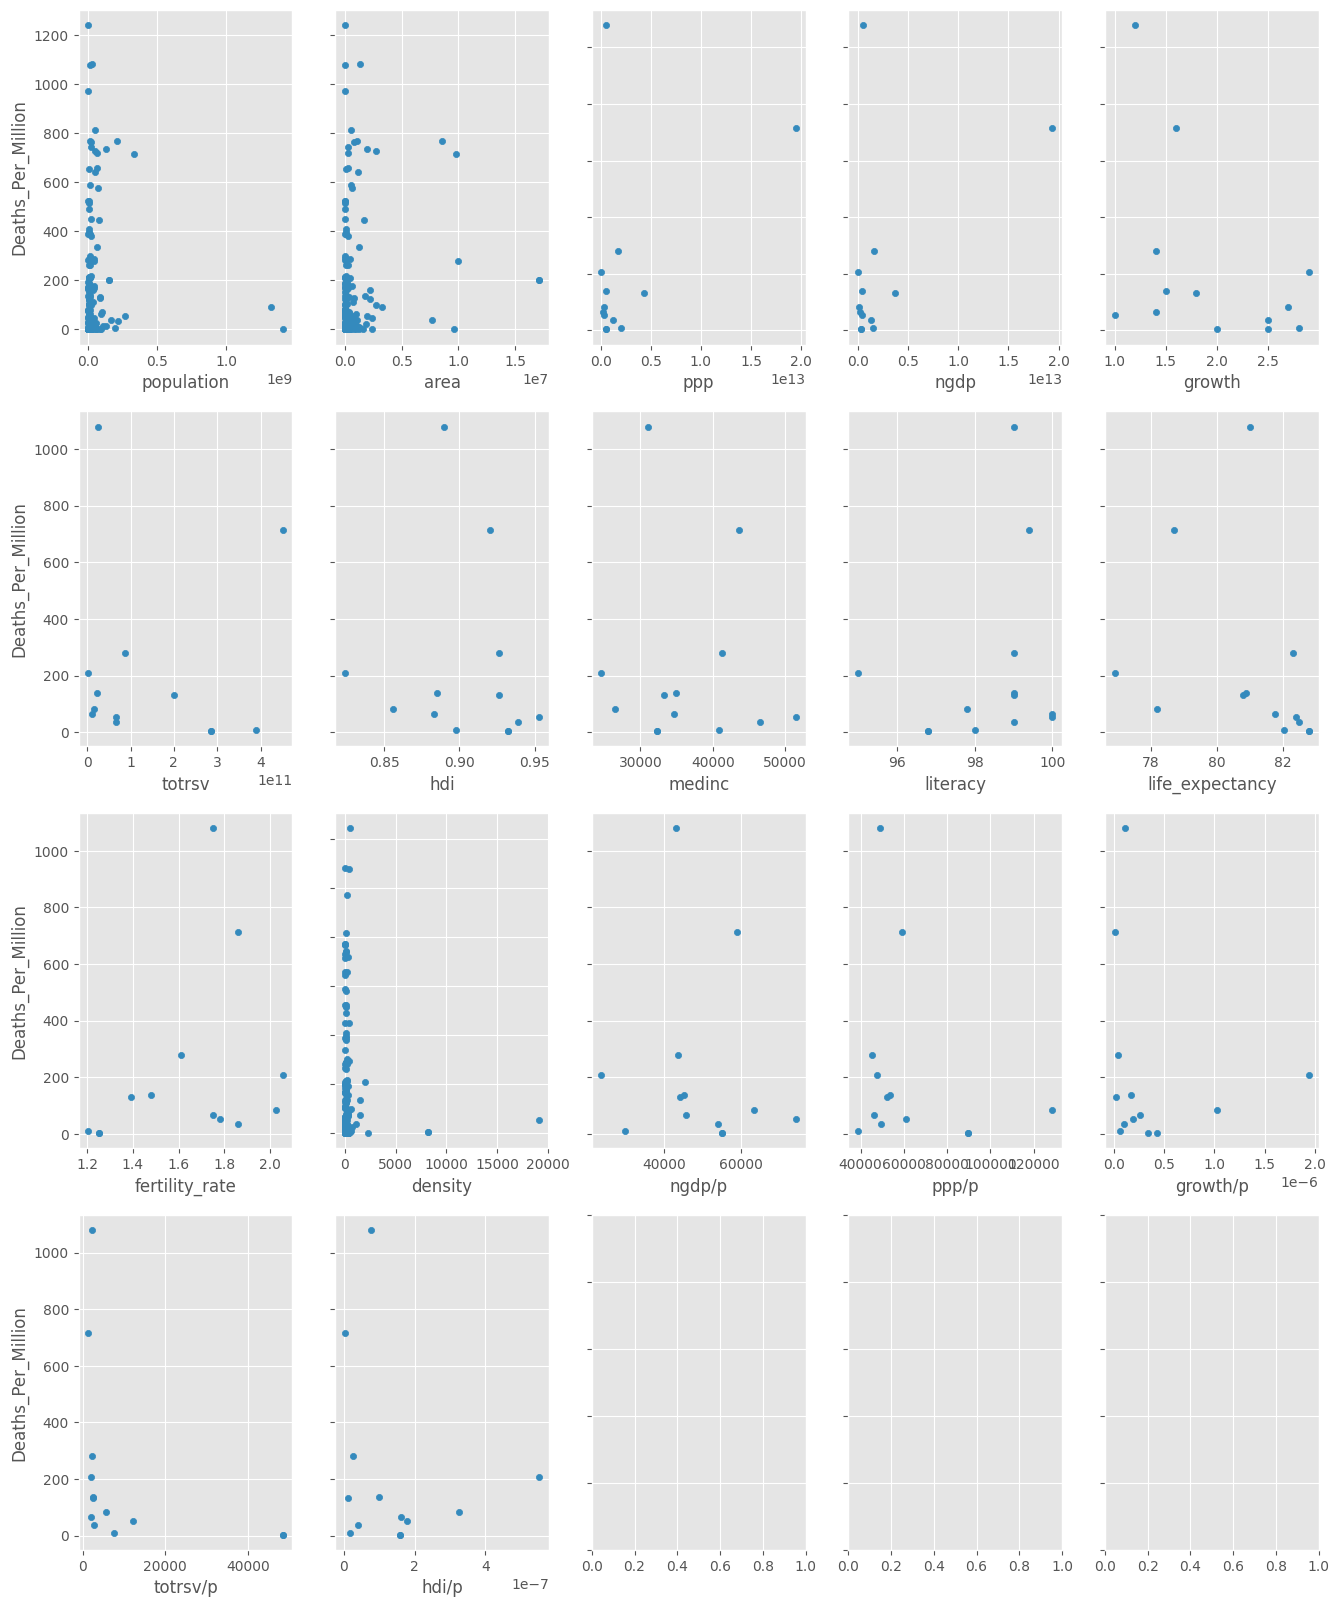
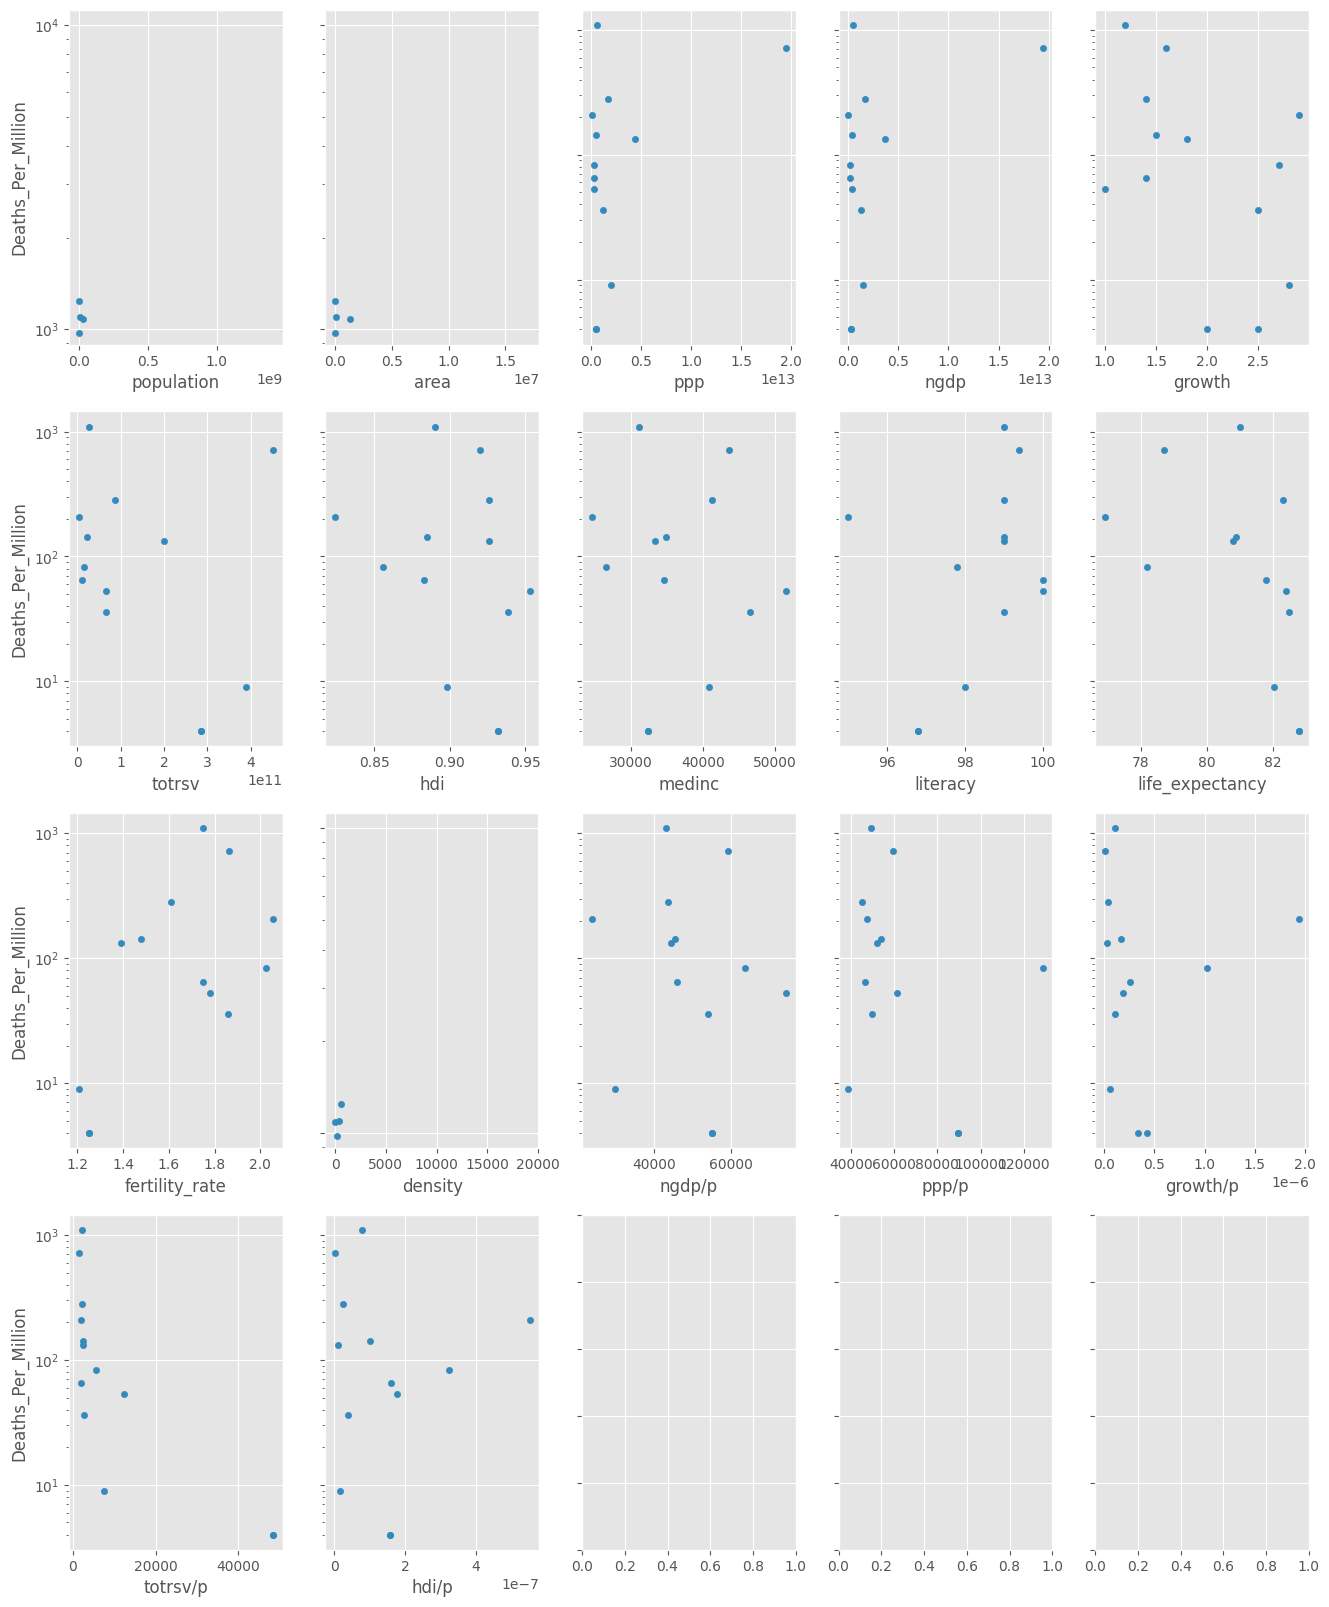
chg: log deaths_per_million

diff --git a/bin/correlate.py b/bin/correlate.py
@@ -55,7 +55,7 @@ def plot_correlation():
     ncols=int((len(df.columns)-1)/4+1)
     fig, axes = plt.subplots(ncols=ncols, nrows=4)
     for ax,col in zip(axes.flat, [c for c in df.columns if c not in cols]):
-        df.plot(kind='scatter', y='Deaths_Per_Million', logy="symlog", x=col, sharey=True, ax=ax)
+        df.plot(kind='scatter', y='Deaths_Per_Million', logy=True, x=col, sharey=True, ax=ax)
     fig.set_size_inches(16, 4*ncols)
     return fig
 
